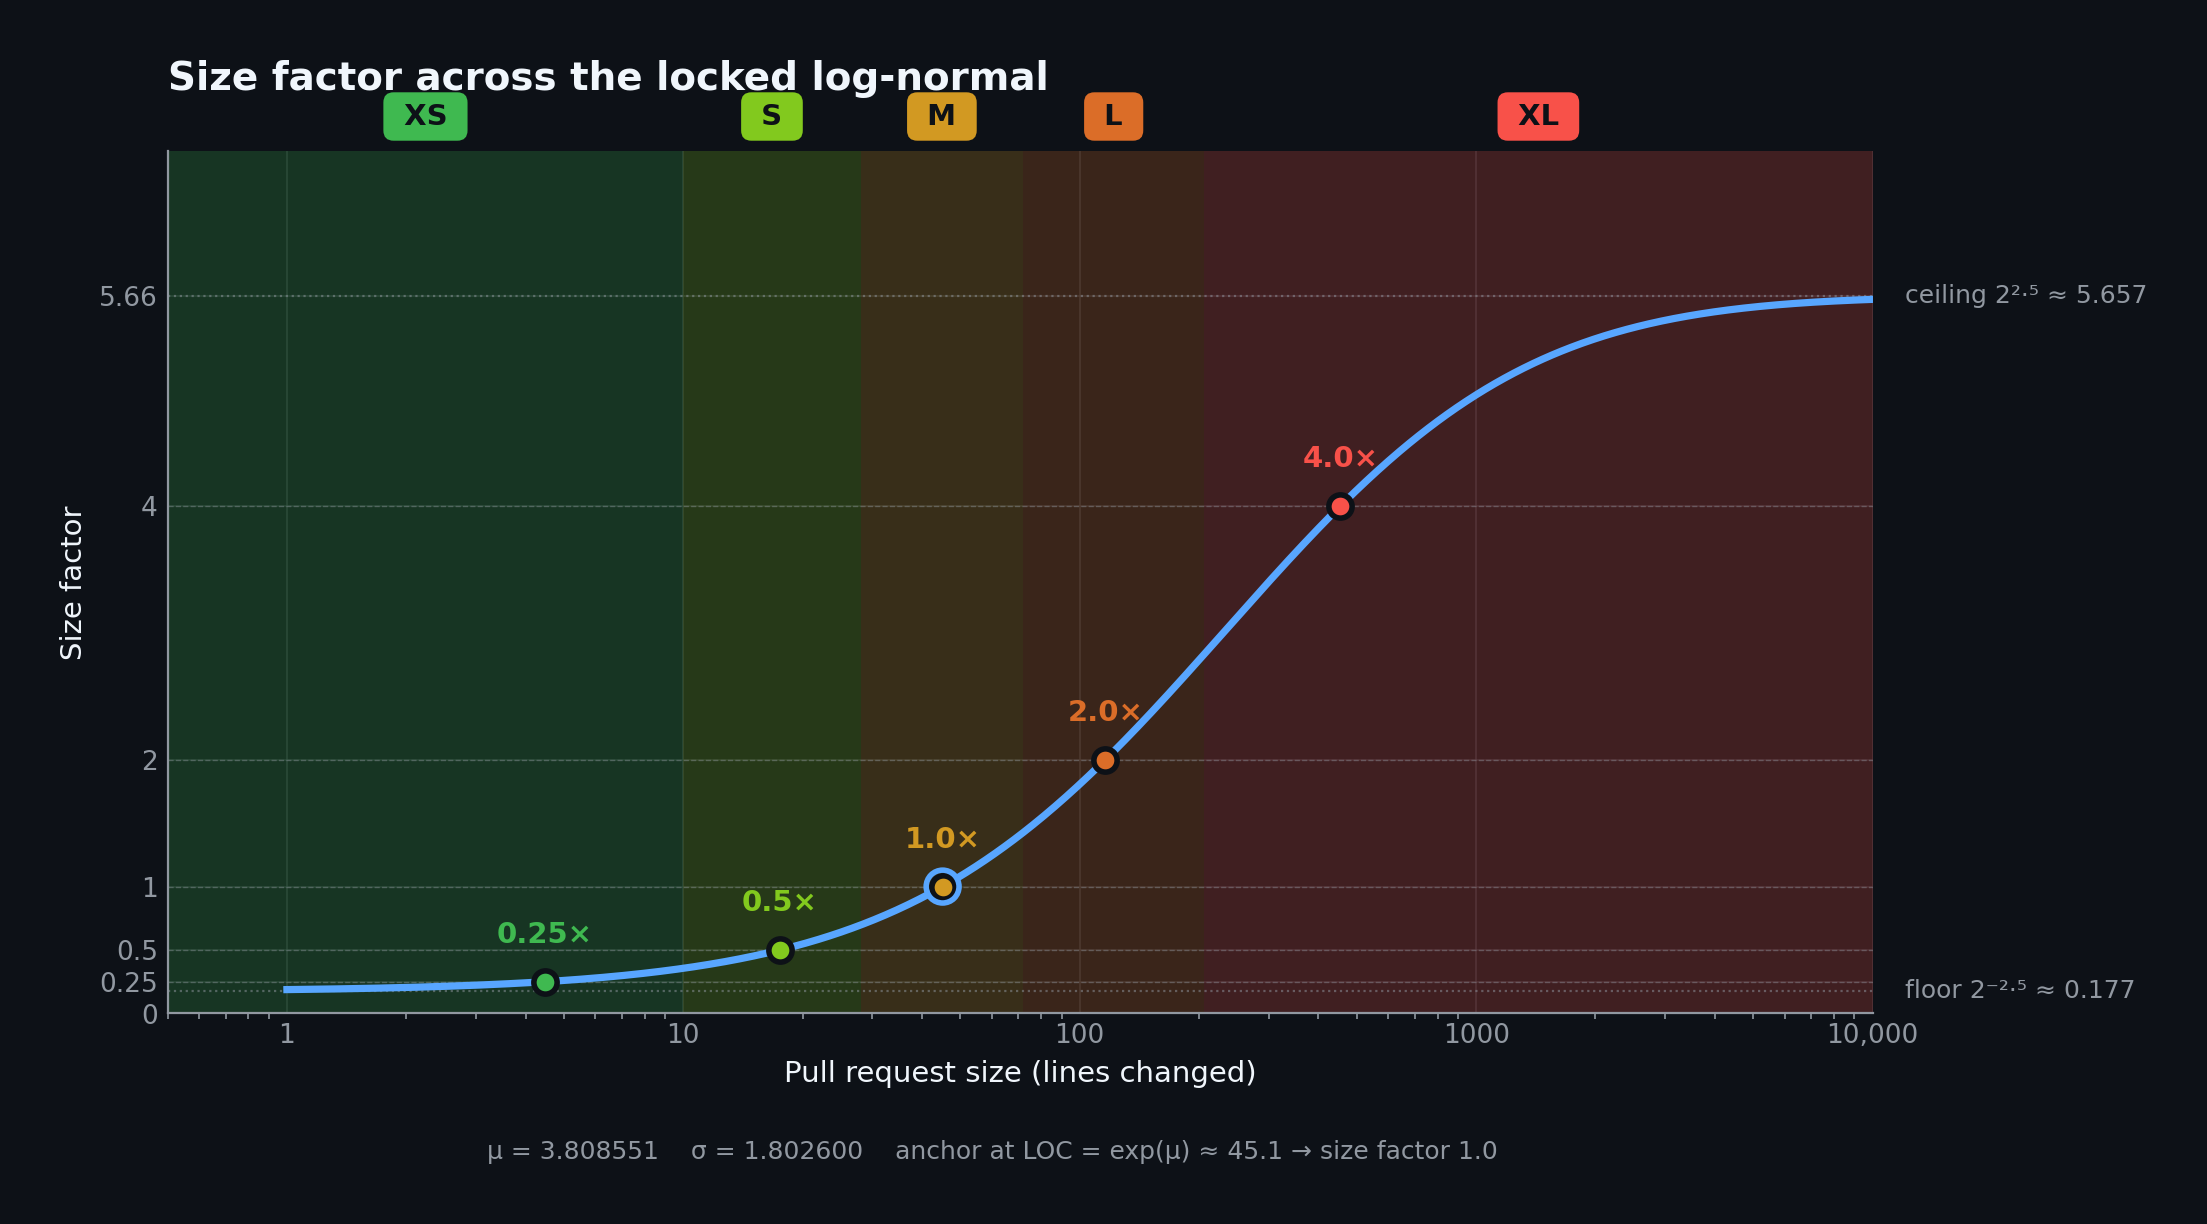
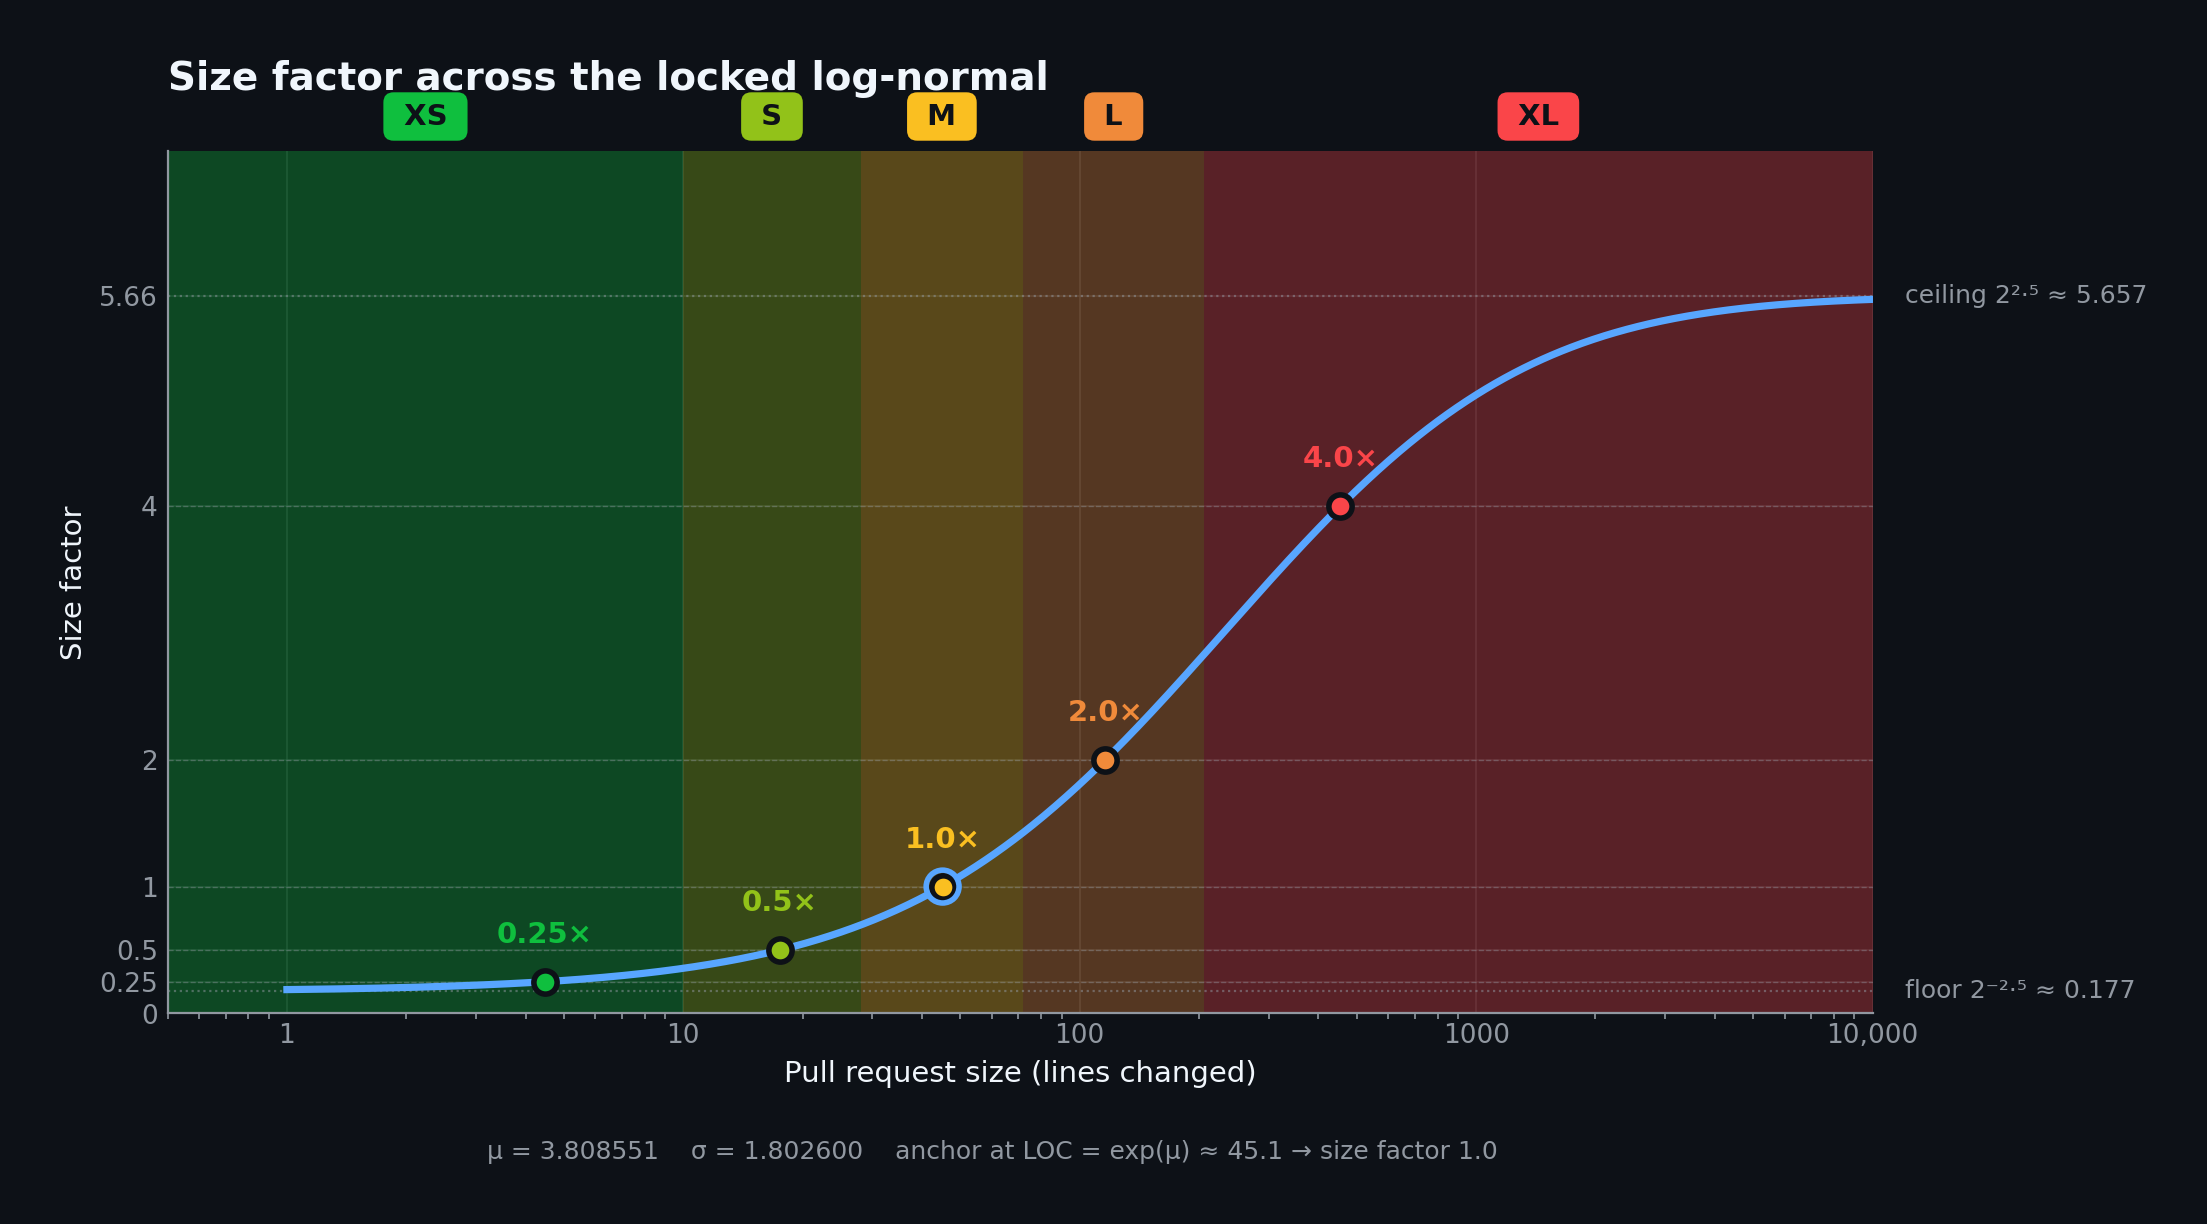
graphs: switch bucket palette to Primer brand green-5/lime-5/yellow-3/orange-3/red-4
Same five hex values work on both light and dark canvases, so no
theme-specific palette branching is needed. Picked from the Primer brand
swatch page (primer.style/brand/primitives/color):

  XS = #0fbf3e (green-5)
  S  = #92c219 (lime-5)
  M  = #fabf21 (yellow-3)
  L  = #f08a3a (orange-3)
  XL = #fa4549 (red-4)

Bumped fill alpha slightly (0.18 -> 0.28 light, 0.22 -> 0.32 dark) to
match the brighter colors. All 16 rendered images regenerated.

diff --git a/scripts/render-graphs.py b/scripts/render-graphs.py
@@ -75,6 +75,12 @@ class Theme:
     bucket_fill_alpha: float
 
 
+# Bucket palette: GitHub Primer brand scales, theme-agnostic.
+# Same hex values render legibly on both light and dark canvases (chosen
+# from the Primer brand swatches at primer.style/brand/primitives/color).
+#   XS = green-5, S = lime-5, M = yellow-3, L = orange-3, XL = red-4
+BUCKET_COLORS = ["#0fbf3e", "#92c219", "#fabf21", "#f08a3a", "#fa4549"]
+
 LIGHT = Theme(
     name="light",
     bg="#ffffff",
@@ -83,8 +89,8 @@ LIGHT = Theme(
     grid="#d1d9e0",
     accent="#0969da",
     accent_dim="#218bff",
-    bucket_colors=["#1a7f37", "#4f9e1c", "#9a6700", "#bc4c00", "#cf222e"],
-    bucket_fill_alpha=0.18,
+    bucket_colors=BUCKET_COLORS,
+    bucket_fill_alpha=0.28,
 )
 
 DARK = Theme(
@@ -95,8 +101,8 @@ DARK = Theme(
     grid="#30363d",
     accent="#58a6ff",
     accent_dim="#388bfd",
-    bucket_colors=["#3fb950", "#82c91e", "#d29922", "#db6d28", "#f85149"],
-    bucket_fill_alpha=0.22,
+    bucket_colors=BUCKET_COLORS,
+    bucket_fill_alpha=0.32,
 )
 
 
